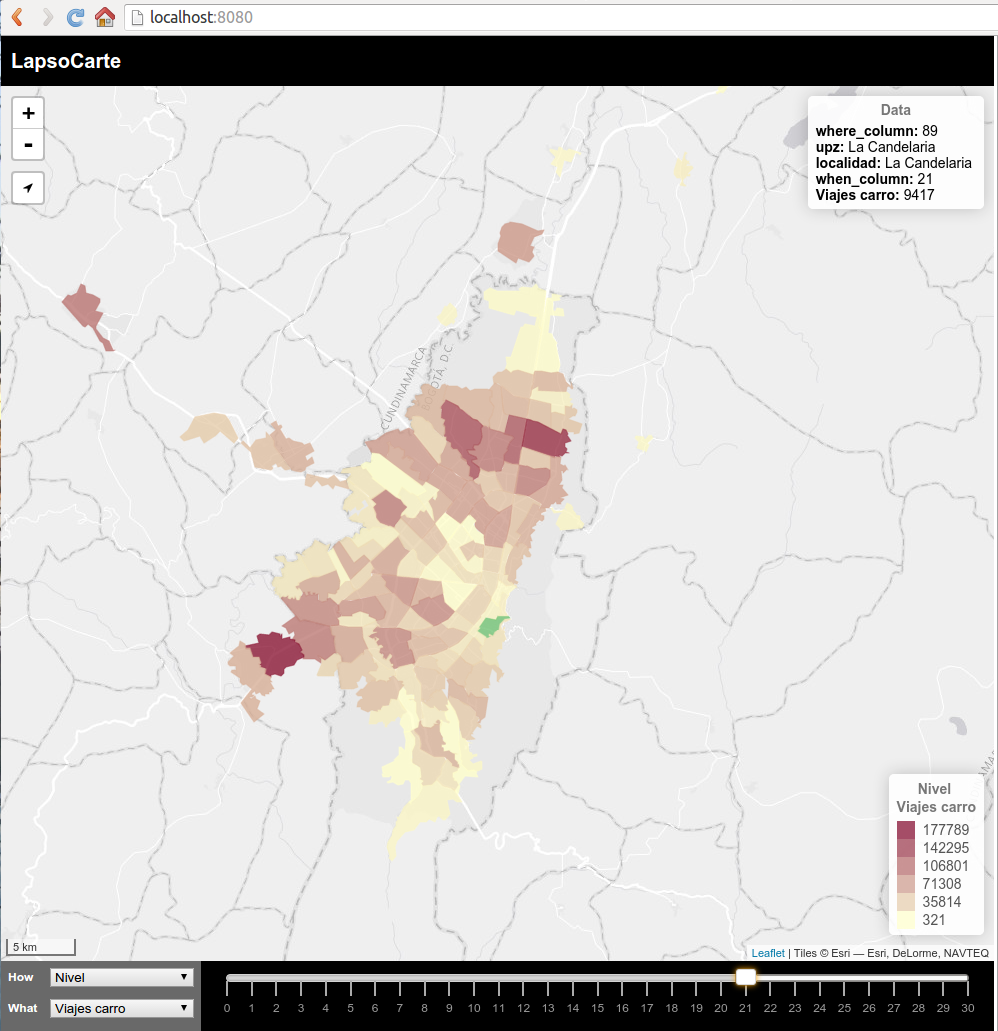
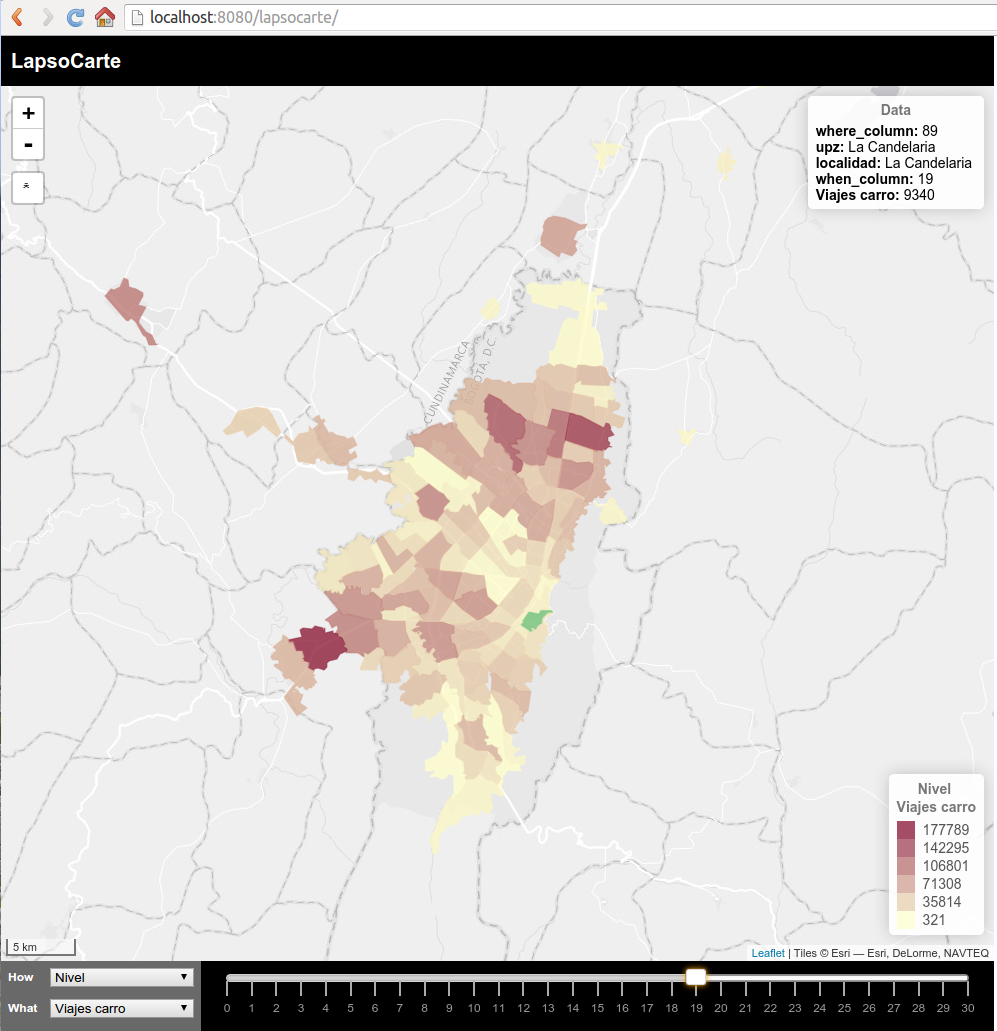
Font-awesome using MaxCDN + readme update

diff --git a/app/index.html b/app/index.html
@@ -5,7 +5,7 @@
     <meta name="description" content="LapsoCarte is a web-based visual tool to interact with time-space referenced data.">
     <meta name="author" content="Camilo Vargas Cabrera">
     <title>LapsoCarte</title>
-
+    <link rel="stylesheet" href="https://maxcdn.bootstrapcdn.com/font-awesome/4.5.0/css/font-awesome.min.css">
     <link href="app.css" rel="stylesheet">
     <script src="bundle.js"></script>
 </head>

diff --git a/app/app.less b/app/app.less
@@ -1,4 +1,3 @@
-@import "../node_modules/font-awesome/less/font-awesome";
 @import (inline) "../node_modules/leaflet/dist/leaflet.css";
 @import (inline) "../node_modules/nouislider/distribute/nouislider.min.css";
 

diff --git a/README.md b/README.md
@@ -110,6 +110,7 @@ npm run build
 node bootstrap.js
 ```
 
-## Screenshot
+## Data exploration
+Once the server is ready you can access the data visualization at http://localhost:8080/lapsocarte/
 
 ![screenshot](doc/proto.png)
